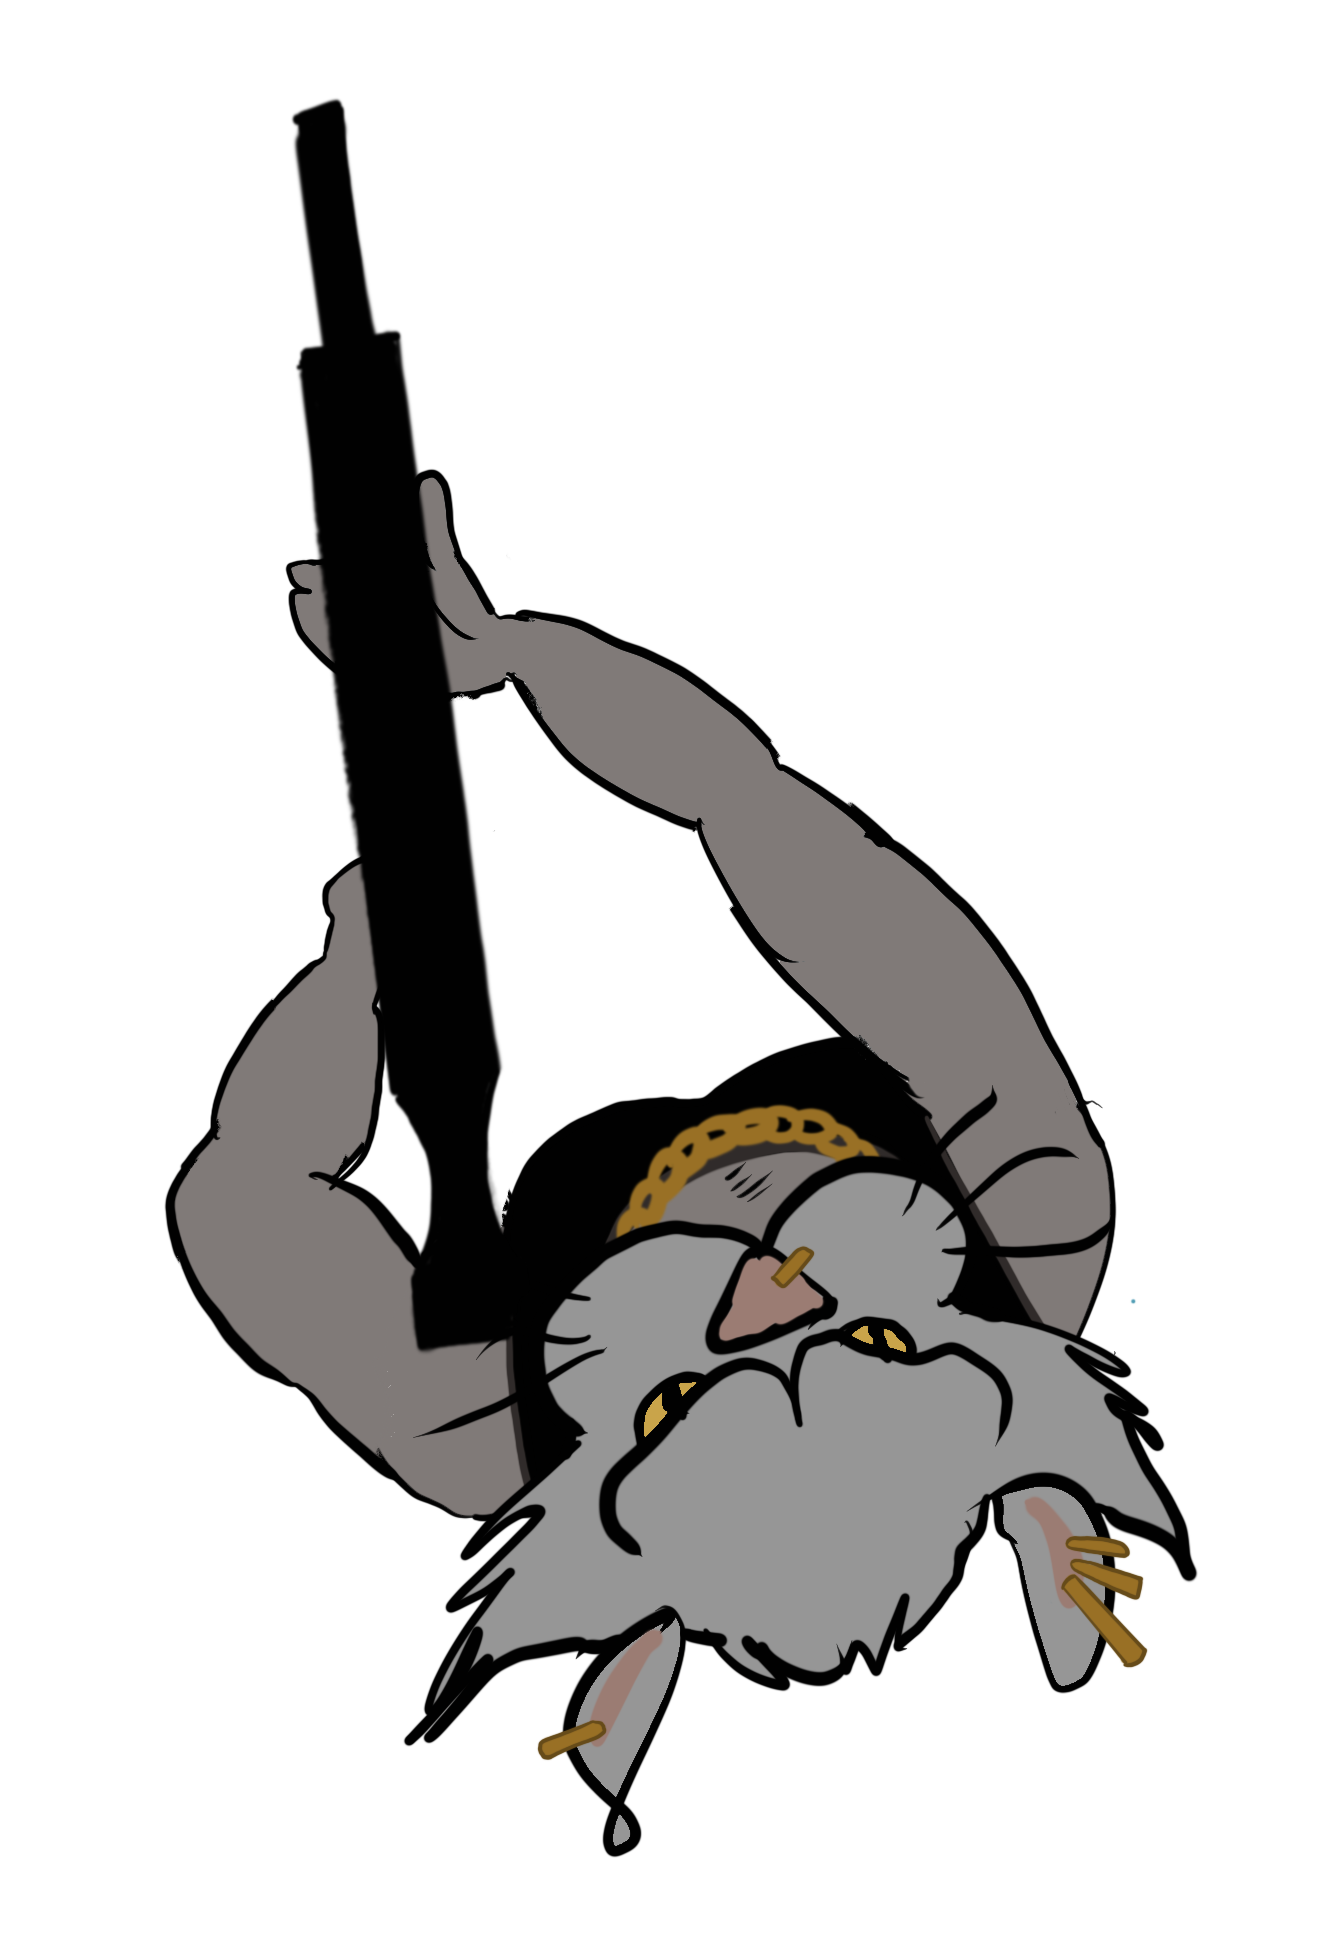
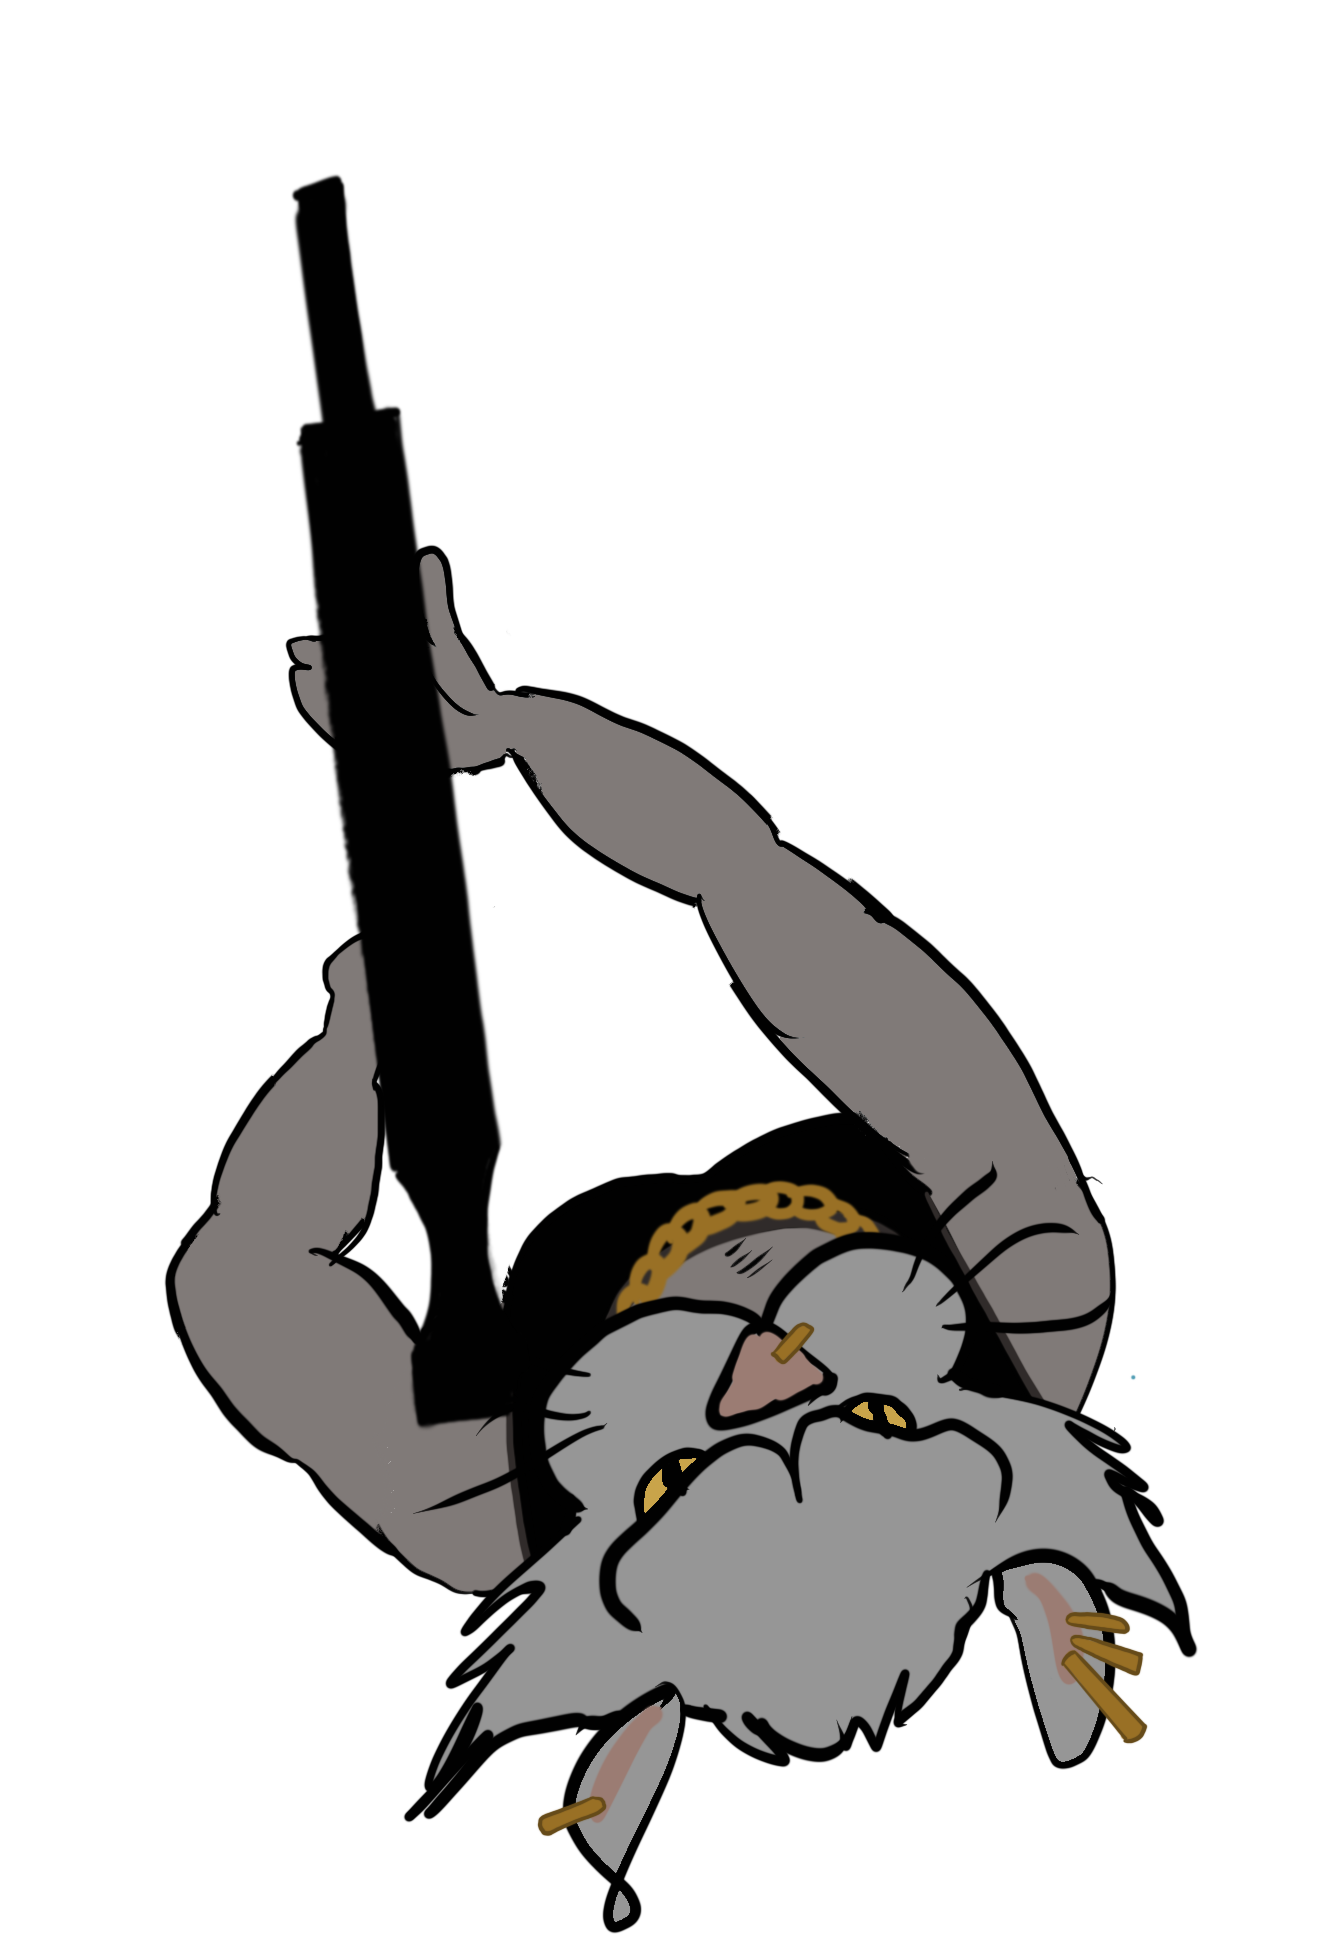
correct size

Changed region(s): [[0.1229, 0.0308, 0.8913, 1.0]]

diff --git a/src/main/java/inf112/skeleton/app/model/entities/cat/ShotgunCat.java b/src/main/java/inf112/skeleton/app/model/entities/cat/ShotgunCat.java
@@ -15,11 +15,11 @@ public class ShotgunCat extends Cat {
 
     public ShotgunCat() {
         super(
+            10,
             200,
-            75,
             Arrays.asList(new Texture(Gdx.files.internal("cats/Spill_Skytekatt1.png")),new Texture(Gdx.files.internal("cats/Spill_Skytekatt2.png")),new Texture(Gdx.files.internal("cats/Spill_Skytekatt3.png"))),
             Arrays.asList(new Texture(Gdx.files.internal("cats/Spill_Skytekatt1_angrip.png")),new Texture(Gdx.files.internal("cats/Spill_Skytekatt2_angrip.png")),new Texture(Gdx.files.internal("cats/Spill_Skytekatt3_angrip.png"))),
-            75.0f,
+            5.0f,
             200);
     }
 
